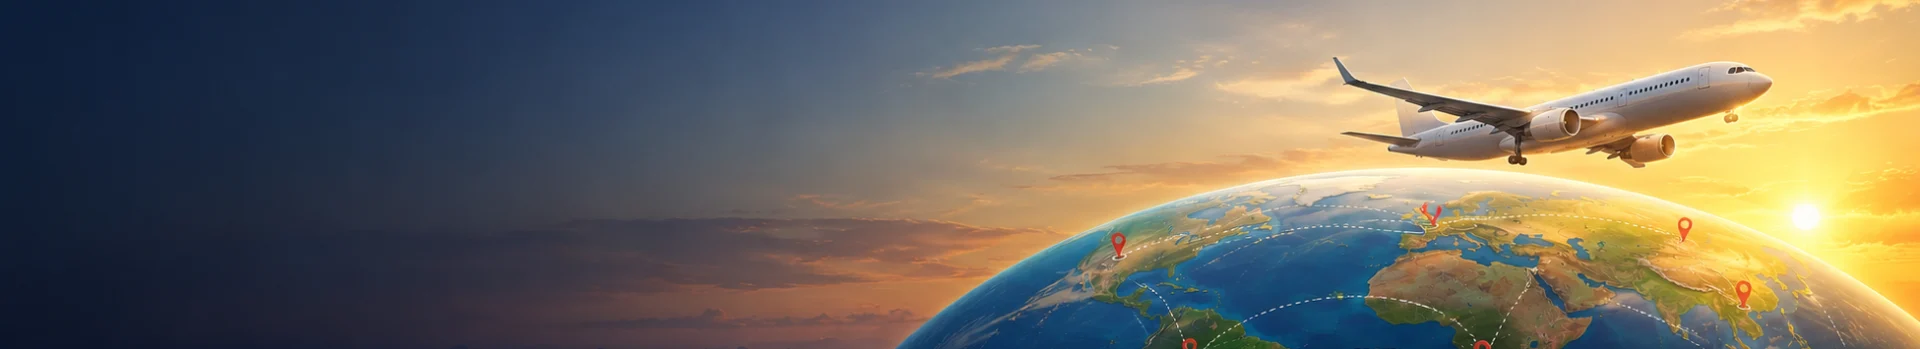
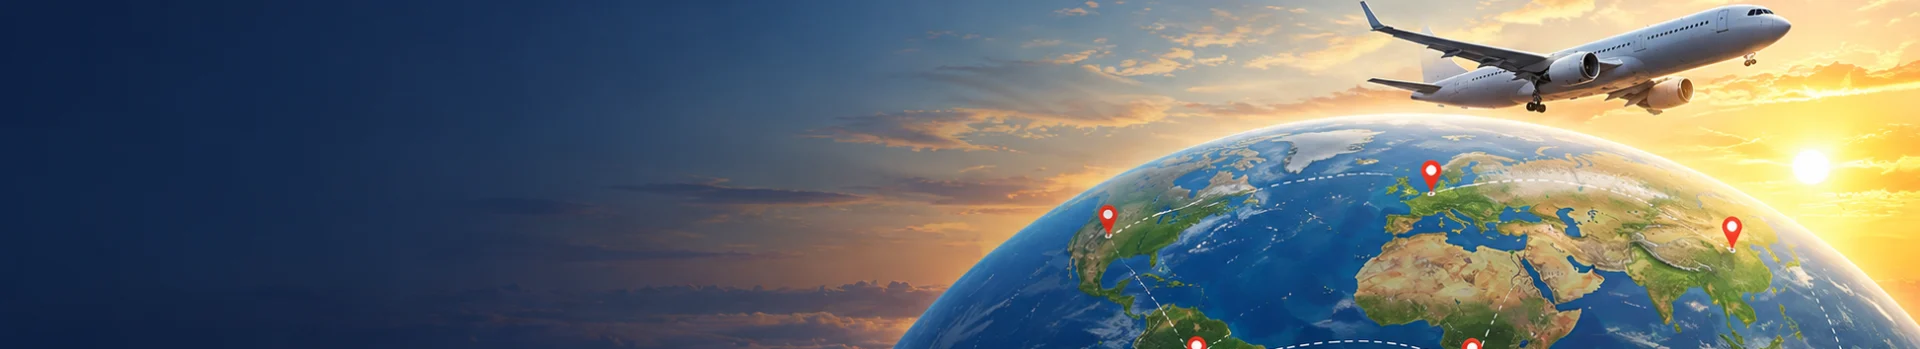
v1.2.789: Her newer globe, anchored where its aeroplane is
The second picture for this scene, and this time framed for a narrow window
too: "achte drauf das es im kleinen fenster auch gut aussieht."

The banner is only a long strip while the window is wide. Measured at four
widths: at 1920 nothing is cut, at 1400 it is 11% off each end, at 1100 21%,
and at 900 only 43% of the picture survives, 29% gone from each side. This one
keeps its aeroplane and its globe in the right half and empty sky in the left,
so a centred trim took the aeroplane away entirely and left a piece of ocean.

Anchored right, the trim comes off the sky. Both are still there at 900px.
Pinned in check-home-layout with the measurements, and proved to bite: put
"center" back and the build stops.

The other three scenes are landscapes that read from any part of themselves
and stay centred; each was looked at at 900px before that was decided.

diff --git a/src/prototype/NewUiPrototype.tsx b/src/prototype/NewUiPrototype.tsx
@@ -2117,7 +2117,13 @@ const BANNER_SCENERY: Partial<Record<GuidedBackground, { src: string; frame: str
   // their real edges, then to 5.5 to 1, which sits between the widths this box
   // takes. There is no band left to place.
   bubbles: { src: scenerySpeechBubbles, frame: "center" },
-  atlas: { src: sceneryFlightPath, frame: "center" },
+  // Right, not centre. In a narrow window the banner stops being a strip and
+  // starts trimming the SIDES — at 900px only 43% of the width survives, 29%
+  // off each end. This picture keeps its aeroplane and its globe in the right
+  // half and empty sky in the left, so a centred trim took the aeroplane away
+  // entirely and left a piece of ocean. Anchored right, the trim comes off the
+  // sky and both survive.
+  atlas: { src: sceneryFlightPath, frame: "right center" },
   garden: { src: sceneryFlowerGarden, frame: "center" },
   dawn: { src: scenerySoftDawn, frame: "center" },
 };
